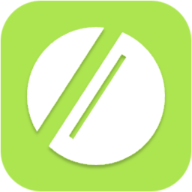
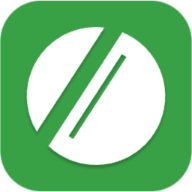
💄 (colors): update primary colors

diff --git a/src/components/SidebarWithHeader.tsx b/src/components/SidebarWithHeader.tsx
@@ -75,7 +75,7 @@ export default function SidebarWithHeader({
 }) {
   const { isOpen, onOpen, onClose } = useDisclosure();
   return (
-    <Box minH="100vh" bg={useColorModeValue('gray.100', 'gray.900')}>
+    <Box minH="100vh" bg={useColorModeValue('gray.100', 'gray.800')}>
       <SidebarContent
         onClose={() => onClose}
         display={{ base: 'none', md: 'block' }}
@@ -144,7 +144,8 @@ const SidebarContent = ({
   return (
     <Flex
       direction="column"
-      bg={useColorModeValue('white', 'gray.900')}
+      bg={useColorModeValue('gray.50', 'gray.900')}
+      boxShadow={useColorModeValue('xl', 'dark-xl')}
       borderRight="1px"
       borderRightColor={useColorModeValue('gray.200', 'gray.700')}
       w={{ base: 'full', md: 'auto' }}
@@ -216,7 +217,7 @@ const SidebarContent = ({
             isHover={isHover}
             key={'twitter'}
             icon={FiTwitter}
-            href={'https://twitter.com/w3yxyz'}
+            href={'https://twitter.com/BiwayAnalytics'}
           >
             Twitter
           </NavItem>
@@ -360,8 +361,6 @@ interface MobileProps extends FlexProps {
   onOpen: () => void;
 }
 const MobileNav = ({ onOpen, ...rest }: MobileProps) => {
-  const { toggleColorMode } = useColorMode();
-  const toggleIcon = useColorModeValue(<FiMoon />, <FiSun />);
   const logo = useColorModeValue('/logo.svg', '/logo-dark.svg');
   return (
     <Flex
@@ -370,8 +369,8 @@ const MobileNav = ({ onOpen, ...rest }: MobileProps) => {
       gap={{ base: 2, md: 4 }}
       alignItems="center"
       bg={{
-        base: useColorModeValue('white', 'gray.900'),
-        md: useColorModeValue('whiteAlpha.600', 'gray.900')
+        base: useColorModeValue('gray.50', 'gray.900'),
+        md: useColorModeValue('gray.50', 'gray.900')
       }}
       borderBottomWidth="1px"
       borderBottomColor={useColorModeValue('gray.200', 'gray.700')}

diff --git a/src/components/ConnectButton.tsx b/src/components/ConnectButton.tsx
@@ -1,6 +1,17 @@
 import { ConnectButton } from '@rainbow-me/rainbowkit';
-import { Button, Flex, Image } from '@chakra-ui/react';
+import { Button, Flex, Image, useBreakpointValue } from '@chakra-ui/react';
 export const CustomConnectButton = () => {
+  const buttonText = useBreakpointValue(
+    {
+      base: 'Connect',
+      md: 'Connect Wallet'
+    },
+    {
+      // Breakpoint to use when mediaqueries cannot be used, such as in server-side rendering
+      // (Defaults to 'base')
+      fallback: 'md'
+    }
+  );
   return (
     <ConnectButton.Custom>
       {({
@@ -35,12 +46,11 @@ export const CustomConnectButton = () => {
               if (!connected) {
                 return (
                   <Button
-                    colorScheme="secondary"
-                    // variant="outline"
+                    colorScheme="primary"
                     onClick={openConnectModal}
                     rounded="xl"
                   >
-                    Connect Wallet
+                    {buttonText}
                   </Button>
                 );
               }

diff --git a/src/pages/_app.tsx b/src/pages/_app.tsx
@@ -71,13 +71,13 @@ export default function App({ Component, pageProps }: AppProps) {
         theme={
           isDarkTheme
             ? darkTheme({
-                accentColor: '#BFFE58',
+                accentColor: '#68D36D',
                 accentColorForeground: 'black',
                 borderRadius: 'medium',
                 overlayBlur: 'small'
               })
             : lightTheme({
-                accentColor: '#A3D94B',
+                accentColor: '#38A146',
                 accentColorForeground: 'white',
                 borderRadius: 'medium',
                 overlayBlur: 'small'

diff --git a/src/styles/theme.tsx b/src/styles/theme.tsx
@@ -23,16 +23,16 @@ const theme = extendTheme({
   },
   colors: {
     primary: {
-      50: '#DCFEA5',
-      100: '#D3FE8C',
-      200: '#C9FE72',
-      300: '#BFFE58',
-      400: '#B6F254',
-      500: '#ADE550',
-      600: '#A3D94B',
-      700: '#99CC47',
-      800: '#90BF42',
-      900: '#87B23E'
+      50: '#F1FFF0',
+      100: '#C7F6C6',
+      200: '#9AE69B',
+      300: '#68D36D',
+      400: '#48BB52',
+      500: '#38A146',
+      600: '#2F853D',
+      700: '#276734',
+      800: '#22542C',
+      900: '#1C4524'
     },
     secondary: {
       200: '#CBD5E0',

diff --git a/src/styles/button.tsx b/src/styles/button.tsx
@@ -5,7 +5,7 @@ const md = defineStyle({
 });
 
 const sm = defineStyle({
-  borderRadius: 'xl'
+  borderRadius: 'full'
 });
 
 const xs = defineStyle({
